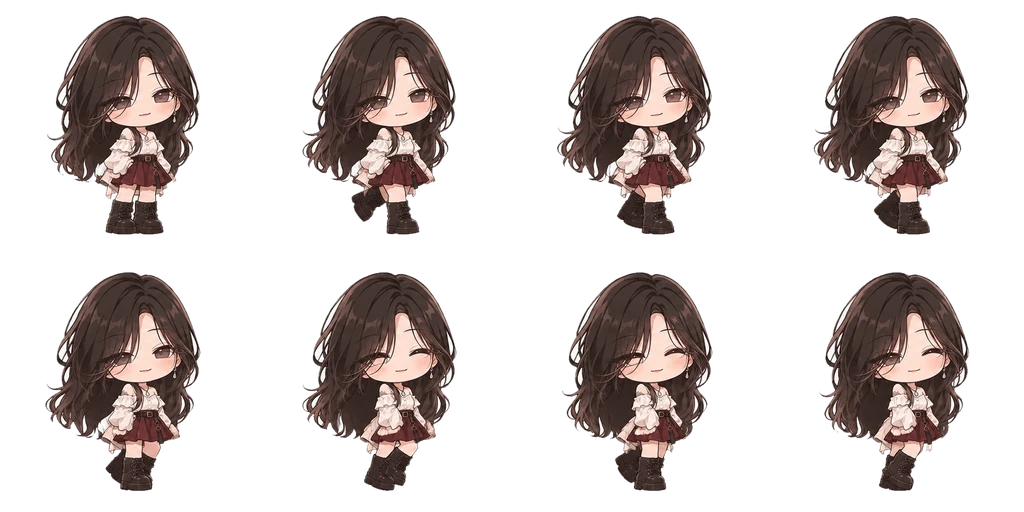
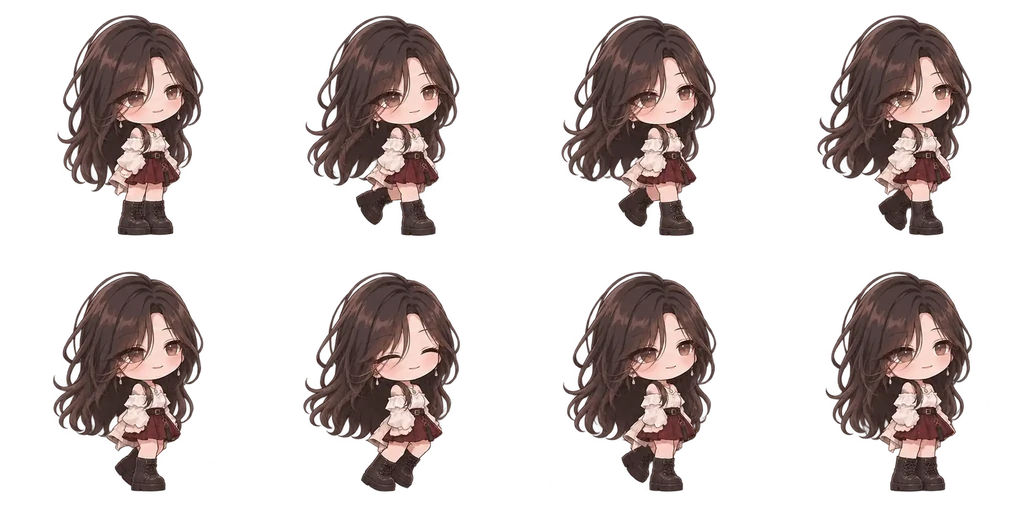
Regenerate the home walk sheet from the fixed v0.2 art, with cache busting
Claude-Session: https://claude.ai/code/session_01NLB8SsMm2s9edHByXCUDsp

diff --git a/js/actors.js b/js/actors.js
@@ -4,11 +4,12 @@
 
 import { reducedMotion } from './egg-view.js';
 
-const SHEET = 'assets/characters/siang-001-walk-sheet-256.webp'; // 4 欄 × 2 列，共 8 格
+// 4 欄 × 2 列，共 8 格。素材更新時把 ?v= 的數字加一，手機才會抓新圖而不是用快取
+const SHEET = 'assets/characters/siang-001-walk-sheet-256.webp?v=2';
 const FRAME_MS = 140;
 const FRAMES = 8;
 const STAND_FRAME = 0; // 雙腳併攏的那一格，當作站姿
-const REST_FRAME = 6; // 閉眼微笑的那一格，當作休息
+const REST_FRAME = 5; // 閉眼微笑的那一格（v0.2 素材只有這格閉眼），當作休息
 const SPEED = 0.26; // 每秒走多少「個角色寬」：配合步伐，腳才不會滑
 const LANE = [0.36, 0.9]; // 可活動範圍（佔地板寬度的比例）；左邊留給小恐龍
 const INSPECT_AT = 0.7; // 看蛋時站的位置：培養架紅寶石的右邊，不擋蛋
